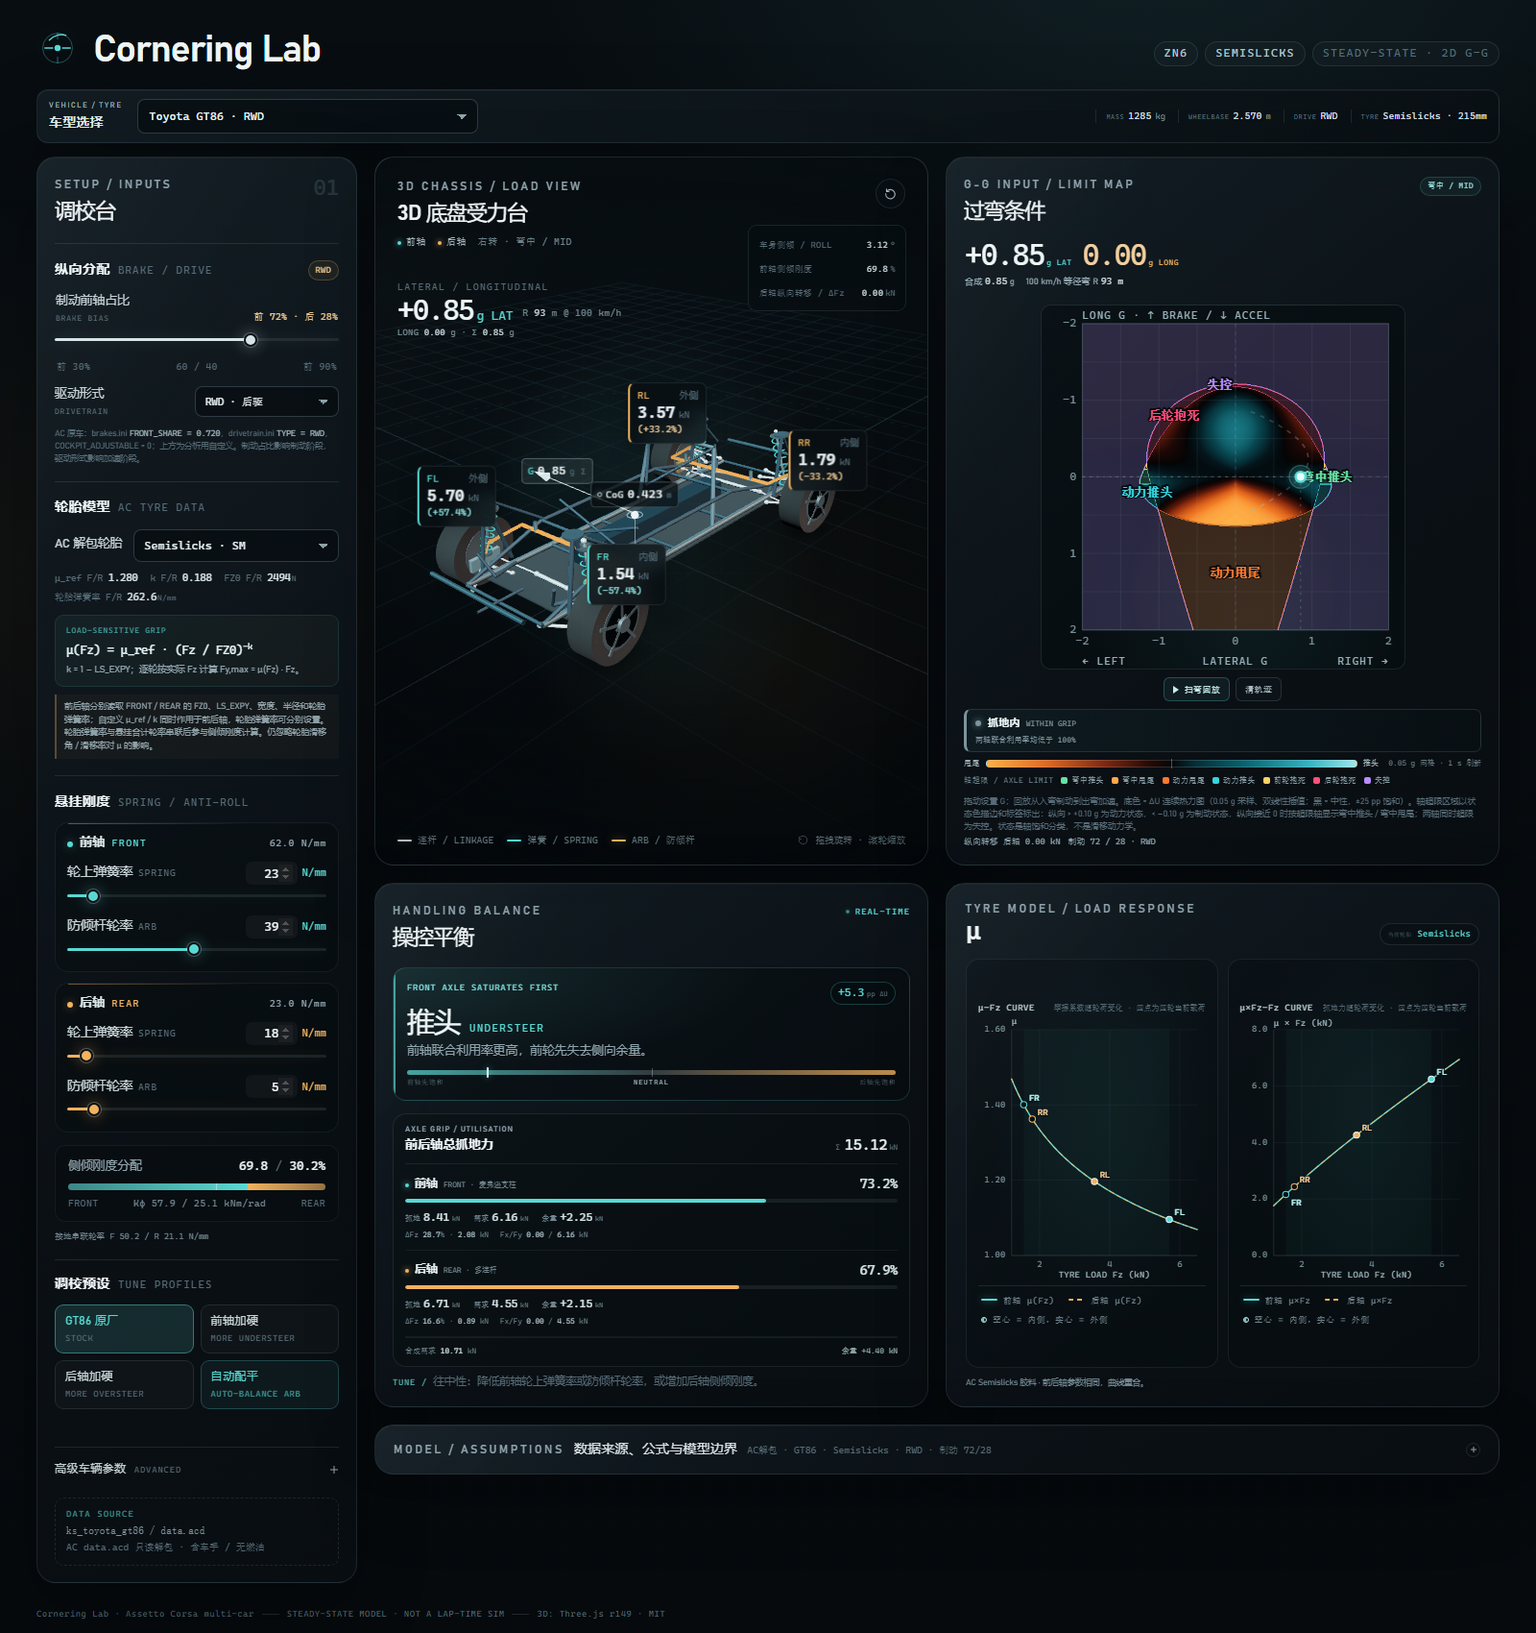
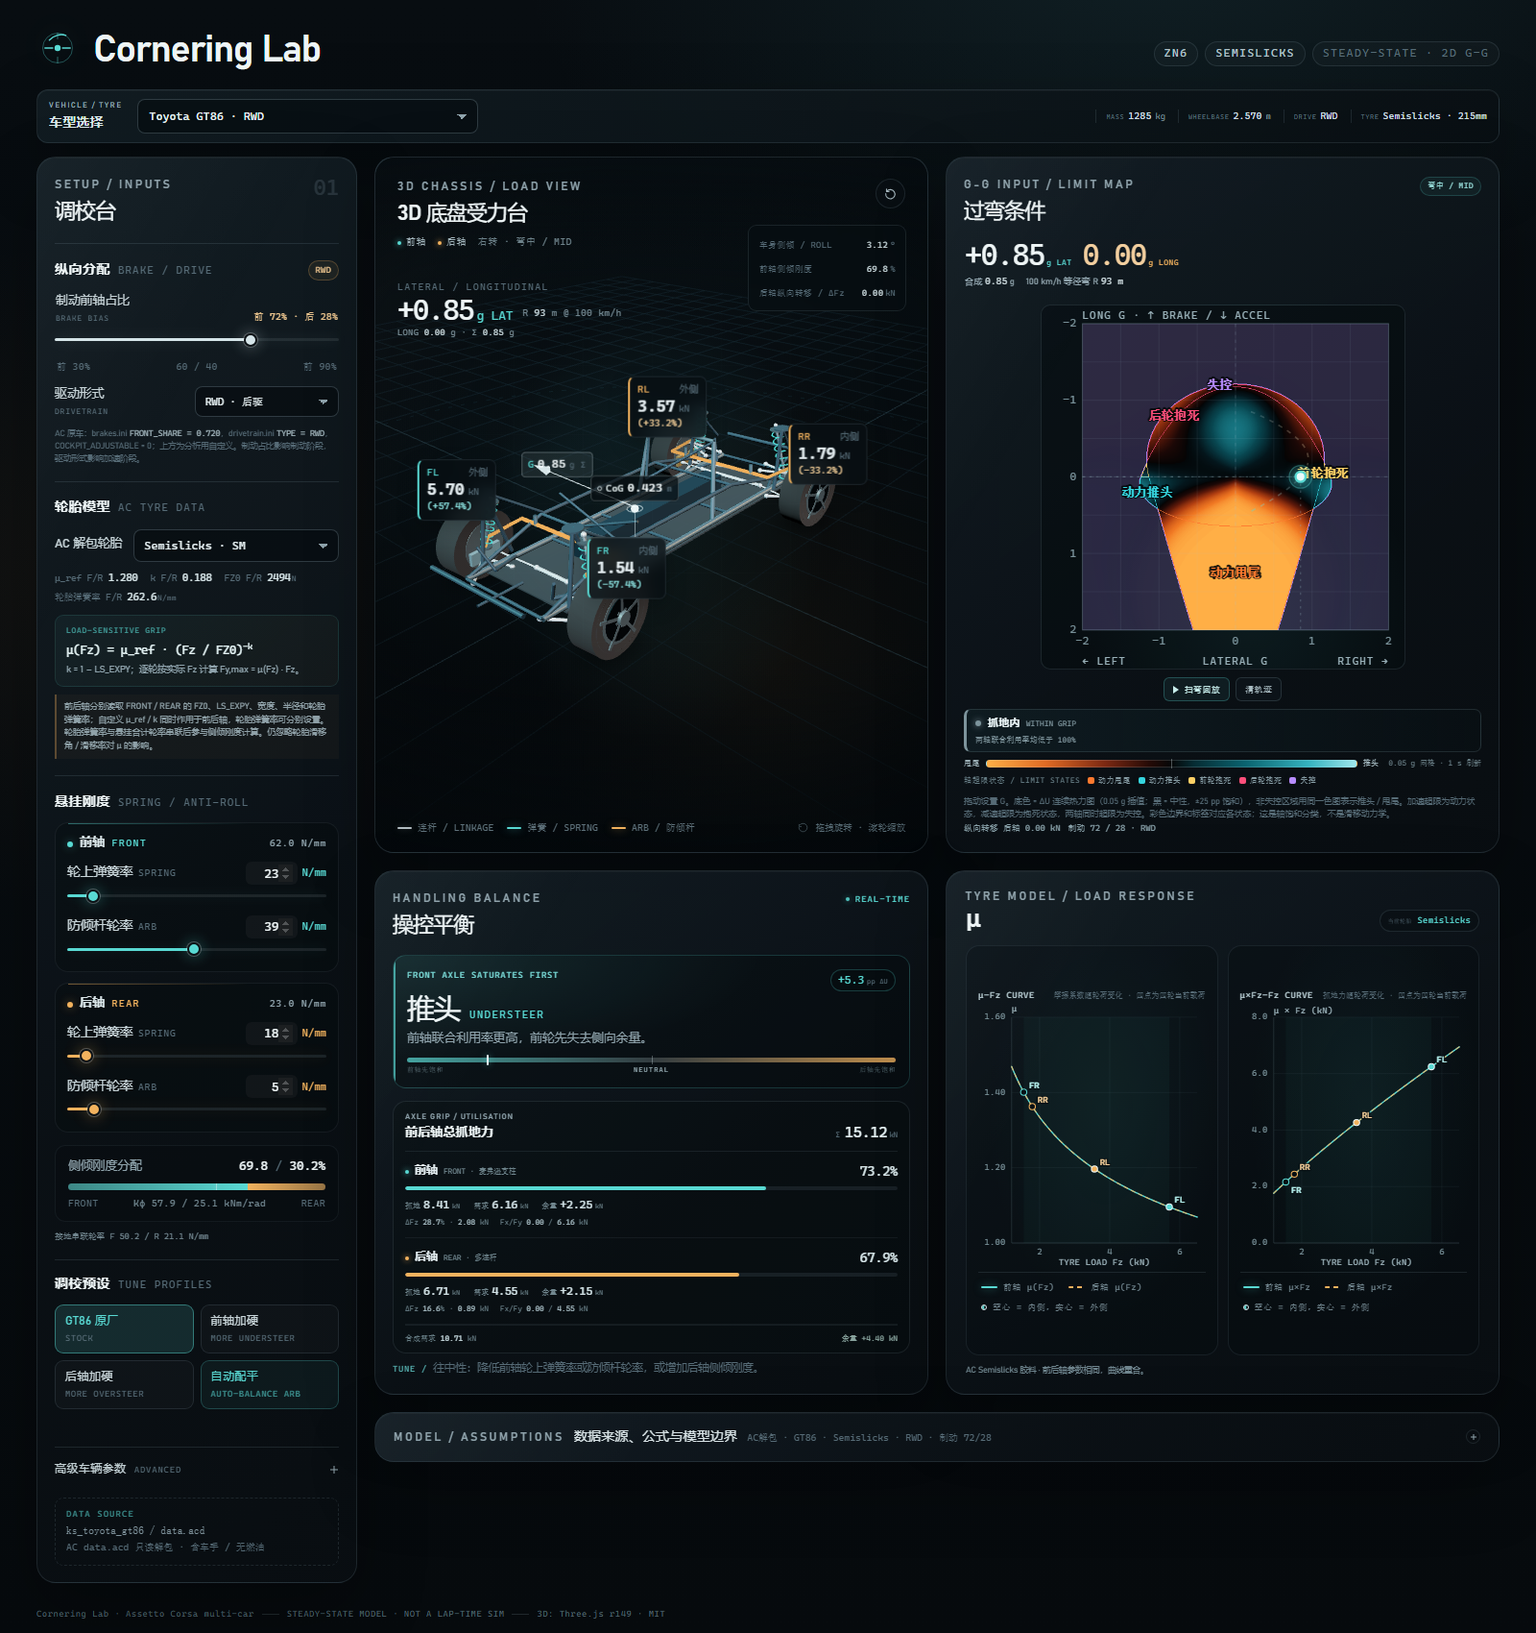
Simplify G-G states and keep colormap in non-loss regions

diff --git a/app.js b/app.js
@@ -41,8 +41,6 @@
   var G_DELTA_SCALE_PP = 25;
   var G_STATE_ORDER = [
     'loss-of-control',
-    'mid-corner-understeer',
-    'mid-corner-oversteer',
     'power-over',
     'power-under',
     'front-lock',
@@ -53,8 +51,6 @@
     G_STATE_INDEX[code] = index + 1;
   });
   var G_STATE_COLORS = {
-    'mid-corner-understeer': [103, 224, 163],
-    'mid-corner-oversteer': [255, 169, 77],
     'power-over': [255, 122, 47],
     'power-under': [53, 213, 223],
     'front-lock': [255, 209, 102],
@@ -62,8 +58,6 @@
     'loss-of-control': [183, 140, 255]
   };
   var G_STATE_DESCRIPTIONS = {
-    'mid-corner-understeer': '纵向 G 接近 0；侧向主导时前轴先达到 100% 联合利用率',
-    'mid-corner-oversteer': '纵向 G 接近 0；侧向主导时后轴先达到 100% 联合利用率',
     'power-over': '加速时后轴先达到 100% 联合利用率',
     'power-under': '加速时前轴先达到 100% 联合利用率',
     'front-lock': '减速时前轴先达到 100% 联合利用率',
@@ -1000,19 +994,14 @@
         var rr1 = r01 + (r11 - r01) * tx;
         var rearUtilValue = rr0 + (rr1 - rr0) * ty;
 
-        // Classify and fade from the same interpolated utilisation field.
-        // The old binary node-limit mask could disagree with this threshold
-        // and leave transparent, sawtoothed holes near the friction circle.
-        var maxUtilValue = Math.max(frontUtilValue, rearUtilValue);
-        var maskX = clamp((maxUtilValue - 0.98) / 0.04, 0, 1);
-        var heatAlpha = 1 - (maskX * maskX * (3 - 2 * maskX));
-
         var vehicleState = model.classifyVehicleState(
           frontUtilValue,
           rearUtilValue,
           longValue
         );
-        var stateColor = vehicleState ? G_STATE_COLORS[vehicleState.code] : null;
+        var lossColor = vehicleState && vehicleState.code === 'loss-of-control'
+          ? G_STATE_COLORS['loss-of-control']
+          : null;
 
         var t = Math.tanh(value / G_DELTA_SCALE_PP);
         var lutIndex = clamp(Math.round((t + 1) * 127.5), 0, 255);
@@ -1025,18 +1014,18 @@
           ? (G_STATE_INDEX[vehicleState.code] || 0)
           : 0;
 
-        if (stateColor) {
-          // Keep the state as a faint categorical wash; the bright contour and
-          // label carry the state while the field stays readable.
-          pixels[dataIndex] = Math.round(baseR * 0.05 + stateColor[0] * 0.95);
-          pixels[dataIndex + 1] = Math.round(baseG * 0.05 + stateColor[1] * 0.95);
-          pixels[dataIndex + 2] = Math.round(baseB * 0.05 + stateColor[2] * 0.95);
+        if (lossColor) {
+          // Loss of control is the only region that keeps a categorical fill;
+          // all other regions keep the same ΔU colormap as the in-grip area.
+          pixels[dataIndex] = Math.round(baseR * 0.05 + lossColor[0] * 0.95);
+          pixels[dataIndex + 1] = Math.round(baseG * 0.05 + lossColor[1] * 0.95);
+          pixels[dataIndex + 2] = Math.round(baseB * 0.05 + lossColor[2] * 0.95);
           pixels[dataIndex + 3] = 52;
         } else {
           pixels[dataIndex] = baseR;
           pixels[dataIndex + 1] = baseG;
           pixels[dataIndex + 2] = baseB;
-          pixels[dataIndex + 3] = Math.round(255 * heatAlpha);
+          pixels[dataIndex + 3] = 255;
         }
         dataIndex += 4;
       }
@@ -1382,6 +1371,12 @@
       label = result.vehicleState.label;
       labelEn = result.vehicleState.labelEn;
       description = G_STATE_DESCRIPTIONS[code] || '';
+    } else if (result.axleLimitReached || result.limitExceeded) {
+      // Exactly 0 g has no directional phase; keep the axle-limit fact visible.
+      code = 'axle-limit';
+      label = '轴超限';
+      labelEn = 'AXLE LIMIT';
+      description = '某轴已达到抓地极限；用 ΔU 色图判断推头 / 甩尾倾向。';
     } else {
       code = 'grip';
       label = '抓地内';

diff --git a/tests/model.test.js b/tests/model.test.js
@@ -472,26 +472,31 @@ test('unpacked AC suspension hardpoints drive each car 3D architecture', () => {
   });
 });
 
-test('longitudinal demand plus the saturated axle classifies the seven limit states', () => {
+test('longitudinal sign classifies the five directional and loss states', () => {
   const classify = model.classifyVehicleState;
 
+  assert.equal(Object.keys(model.VEHICLE_STATES).length, 5);
   assert.equal(classify(0.90, 0.90, 0.50), null);
 
   assert.equal(classify(1.10, 0.80, 0.50).code, 'power-under');
   assert.equal(classify(0.80, 1.10, 0.50).code, 'power-over');
   assert.equal(classify(1.10, 0.80, -0.50).code, 'front-lock');
   assert.equal(classify(0.80, 1.10, -0.50).code, 'rear-lock');
-  assert.equal(classify(1.10, 0.80, 0.00).code, 'mid-corner-understeer');
-  assert.equal(classify(0.80, 1.10, 0.00).code, 'mid-corner-oversteer');
+  // Any non-zero longitudinal sign selects a phase.
+  assert.equal(classify(1.10, 0.80, 0.01).code, 'power-under');
+  assert.equal(classify(0.80, 1.10, 0.01).code, 'power-over');
+  assert.equal(classify(1.10, 0.80, -0.01).code, 'front-lock');
+  assert.equal(classify(0.80, 1.10, -0.01).code, 'rear-lock');
+  assert.equal(classify(1.10, 0.80, 0), null);
+  assert.equal(classify(0.80, 1.10, 0), null);
   assert.equal(classify(1.10, 1.10, 0.50).code, 'loss-of-control');
   assert.equal(classify(1.10, 1.10, -0.50).code, 'loss-of-control');
   assert.equal(classify(1.10, 1.10, 0).code, 'loss-of-control');
 
-  assert.equal(classify(1.10, 0.80, 0.50).labelEn, 'POWER UNDER');
-  assert.equal(classify(1.10, 0.80, 0.00).label, '弯中推头');
-  assert.equal(classify(0.80, 1.10, 0.00).labelEn, 'MID-CORNER OVERSTEER');
+  assert.equal(classify(1.10, 0.80, 0.01).labelEn, 'POWER UNDER');
+  assert.equal(classify(1.10, 0.80, 0.01).label, '动力推头');
+  assert.equal(classify(0.80, 1.10, -0.01).labelEn, 'REAR LOCK');
   assert.equal(classify(0.80, 1.10, -0.50).label, '后轮抱死');
-  assert.equal(model.VEHICLE_STATE_LONG_THRESHOLD_G, 0.10);
 
   const straightGrip = model.calculate(model.cloneBaseState());
   assert.equal(straightGrip.vehicleState, null);

diff --git a/model.js b/model.js
@@ -1628,9 +1628,6 @@
   var NEUTRAL_BAND_PP = 0.35;
   var REFERENCE_SPEED_KMH = 100;
 
-  // A sustained longitudinal demand is required before an axle-limit condition
-  // is labelled as a power / braking state rather than a generic axle limit.
-  var VEHICLE_STATE_LONG_THRESHOLD_G = 0.10;
   var VEHICLE_STATES = Object.freeze({
     powerOver: Object.freeze({
       code: 'power-over',
@@ -1645,20 +1642,6 @@
       labelEn: 'POWER UNDER',
       direction: 'accel',
       axle: 'front'
-    }),
-    midCornerUndersteer: Object.freeze({
-      code: 'mid-corner-understeer',
-      label: '弯中推头',
-      labelEn: 'MID-CORNER UNDERSTEER',
-      direction: 'mid',
-      axle: 'front'
-    }),
-    midCornerOversteer: Object.freeze({
-      code: 'mid-corner-oversteer',
-      label: '弯中甩尾',
-      labelEn: 'MID-CORNER OVERSTEER',
-      direction: 'mid',
-      axle: 'rear'
     }),
     frontLock: Object.freeze({
       code: 'front-lock',
@@ -1692,15 +1675,15 @@
     if (frontOver && rearOver) {
       return VEHICLE_STATES.lossOfControl;
     }
-    if (longitudinalG > VEHICLE_STATE_LONG_THRESHOLD_G) {
+    // The sign of longitudinal G selects the acceleration or braking phase.
+    // Exactly 0 g has no directional state.
+    if (longitudinalG > 0) {
       return rearOver ? VEHICLE_STATES.powerOver : VEHICLE_STATES.powerUnder;
     }
-    if (longitudinalG < -VEHICLE_STATE_LONG_THRESHOLD_G) {
+    if (longitudinalG < 0) {
       return frontOver ? VEHICLE_STATES.frontLock : VEHICLE_STATES.rearLock;
     }
-    return frontOver
-      ? VEHICLE_STATES.midCornerUndersteer
-      : VEHICLE_STATES.midCornerOversteer;
+    return null;
   }
 
   function clamp(value, min, max) {
@@ -2173,7 +2156,6 @@
     DRIVE_MODES: DRIVE_MODES,
     NEUTRAL_BAND_PP: NEUTRAL_BAND_PP,
     VEHICLE_STATES: VEHICLE_STATES,
-    VEHICLE_STATE_LONG_THRESHOLD_G: VEHICLE_STATE_LONG_THRESHOLD_G,
     classifyVehicleState: classifyVehicleState,
     getCarProfile: getCarProfile,
     createBaseState: createBaseState,

diff --git a/index.html b/index.html
@@ -562,9 +562,7 @@
           </div>
 
           <div class="g-state-key" aria-label="轴超限状态颜色图例">
-            <span class="g-state-key-title">轴超限 / AXLE LIMIT</span>
-            <span data-state="mid-corner-understeer"><i aria-hidden="true"></i>弯中推头</span>
-            <span data-state="mid-corner-oversteer"><i aria-hidden="true"></i>弯中甩尾</span>
+            <span class="g-state-key-title">轴超限状态 / LIMIT STATES</span>
             <span data-state="power-over"><i aria-hidden="true"></i>动力甩尾</span>
             <span data-state="power-under"><i aria-hidden="true"></i>动力推头</span>
             <span data-state="front-lock"><i aria-hidden="true"></i>前轮抱死</span>
@@ -573,7 +571,7 @@
           </div>
 
           <p class="g-pad-note">
-            拖动设置 G；回放从入弯制动到出弯加速。底色 = ΔU 连续热力图（0.05 g 采样、双线性插值；黑 = 中性，±25 pp 饱和）。轴超限区域以状态色描边和标签标出：纵向 &gt; +0.10 g 为动力状态，&lt; −0.10 g 为制动状态，纵向接近 0 时按超限轴显示弯中推头 / 弯中甩尾；两轴同时超限为失控。状态是轴饱和分类，不是滑移动力学。
+            拖动设置 G。底色 = ΔU 连续热力图（0.05 g 插值；黑 = 中性，±25 pp 饱和），非失控区域用同一色图表示推头 / 甩尾。加速超限为动力状态，减速超限为抱死状态，两轴同时超限为失控。彩色边界和标签对应各状态；这是轴饱和分类，不是滑移动力学。
             <span id="gLongTransferNote">纵向转移 后轴 +0.00 kN</span>
             <span id="gDistributionNote">制动 72 / 28 · RWD</span>
           </p>

diff --git a/styles.css b/styles.css
@@ -774,8 +774,7 @@ input:focus-visible {
 }
 
 .g-vehicle-state[data-state="grip"] { --state-color: #7d949c; }
-.g-vehicle-state[data-state="mid-corner-understeer"] { --state-color: #67e0a3; }
-.g-vehicle-state[data-state="mid-corner-oversteer"] { --state-color: #ffa94d; }
+.g-vehicle-state[data-state="axle-limit"] { --state-color: #d8b978; }
 .g-vehicle-state[data-state="power-over"] { --state-color: #ff7a2f; }
 .g-vehicle-state[data-state="power-under"] { --state-color: #35d5df; }
 .g-vehicle-state[data-state="front-lock"] { --state-color: #ffd166; }
@@ -858,8 +857,6 @@ input:focus-visible {
   white-space: nowrap;
 }
 
-.g-state-key span[data-state="mid-corner-understeer"] { --state-color: #67e0a3; }
-.g-state-key span[data-state="mid-corner-oversteer"] { --state-color: #ffa94d; }
 .g-state-key span[data-state="power-over"] { --state-color: #ff7a2f; }
 .g-state-key span[data-state="power-under"] { --state-color: #35d5df; }
 .g-state-key span[data-state="front-lock"] { --state-color: #ffd166; }

diff --git a/README.md b/README.md
@@ -38,7 +38,7 @@
 - **车型选择栏**：切换车辆时，质量、轴距、前轴荷、轮距、质心高度、轮上弹簧率 / 防倾杆轮率、制动分配、驱动形式、默认轮胎和可选胶料全部按该车 `data.acd` 更新。
 - **二维 G-G 输入**：横轴为侧向 G（左 / 右），纵轴为纵向 G，**向上为制动（负纵向 G），向下为加速（正纵向 G）**，显示范围 **±2 g**；支持鼠标、触摸、方向键，轨迹保留最近 220 个点。
 - **连续推头 / 甩尾底色**：按当前底盘设置以 **0.05 g 网格**（81 × 81 节点）预计算前后轴利用率差 ΔU，再双线性插值到整个 G-G 面板；采用 ICE–黑色–FIRE 发散色图，黑色 = 中性，±25 pp 饱和。底色最多每 **1 秒**在后台刷新一次（仅在调校参数变化时重算），不随光标或回放每帧重算。
-- **轴超限车辆状态**：当某轴联合利用率达到 100% 时，再按纵向 G 分类：**加速 + 后轴 → Power Oversteer（动力甩尾）**、**加速 + 前轴 → Power Under（动力推头）**、**减速 + 前轴 → 前轮抱死**、**减速 + 后轴 → 后轮抱死**、**纵向接近 0 + 前轴 → 弯中推头 / MID-CORNER UNDERSTEER**、**纵向接近 0 + 后轴 → 弯中甩尾 / MID-CORNER OVERSTEER**；前后轴同时超限 → **失控 / LOSS OF CONTROL**。纵向阈值取 **±0.10 g**。热力图上用淡色状态区、彩色轮廓和标签标出，同时在 G 面板下方显示当前状态条。这些是**轴抓地饱和分类标签**，不是滑移动力学中的真实抱死 / 甩尾仿真。
+- **轴超限车辆状态**：当某轴联合利用率达到 100% 时，按纵向 G 的**符号**分类：**加速 + 后轴 → Power Oversteer（动力甩尾）**、**加速 + 前轴 → Power Under（动力推头）**、**减速 + 前轴 → 前轮抱死**、**减速 + 后轴 → 后轮抱死**；前后轴同时超限 → **失控 / LOSS OF CONTROL**。纵向 G 恰为 0 时没有方向状态。非失控区域全部保留与抓地内相同的 ΔU 连续色图来表示推头 / 甩尾，方向状态只用彩色边界和文字标签标出；失控区域保留分类色填充。这些是**轴抓地饱和分类标签**，不是滑移动力学中的真实抱死 / 甩尾仿真。
 - **入弯 → 弯心 → 出弯回放**：6.2 秒自动扫过从制动入弯、trail braking 到加速出弯的连续 G 组合；状态、载荷、轴抓地力、3D 底盘、弹簧、ARB 与 μ 曲线同步刷新。
 - 可旋转 / 缩放的 3D 底盘：悬挂按车种重建——AC 原始 `TYPE=DWB` 显示上下叉臂，`TYPE=STRUT` 显示支柱；MX-5 ND / Cup 前后双叉臂，GT86 / 22B 前麦弗逊，GT86 后悬按多连杆视觉重建；22B 后悬原始数据为 STRUT。其余新增车型按各自 `suspensions.ini` 的 DWB / STRUT 类型和硬点重建。摆臂、转向拉杆和 STRUT 轴线使用解包硬点，轴距 / 轮距 / 轴荷变化会实时反映到杆长和弹簧位置；空间架车身外形仍是简化示意。
 - 3D **CoG 质心标签 + 垂线 / 地面投影**；G 力箭头长度由合成 G 决定，方向表示惯性力（指向弯外侧，加速指向后方）。
@@ -174,16 +174,15 @@ U          = F_res,axle / Fgrip,axle
 - 纵向 G 通过质心高度与轴距在前后轴间转移垂直载荷；每个车轮的 μ 按其实际 Fz 查曲线。
 - 前 / 后轴总抓地力是该轴两只轮胎的 `Fy,max` 之和。
 - 合成需求包含侧向需求和纵向需求；利用率高的一轴先达到联合极限：前轴高 → understeer；后轴高 → oversteer。
-- G-G 底色对 0.05 g 网格逐节点计算同样的模型：用前后轴联合利用率差 ΔU 着色，双线性插值到面板。轴超限节点按纵向 G 分类并叠加淡色状态区、彩色边界和标签；未落入七类状态的离地区域渐隐留黑。每隔 1 秒仅在参数变化时重算一次。
+- G-G 底色对 0.05 g 网格逐节点计算同样的模型：用前后轴联合利用率差 ΔU 着色，双线性插值到面板。抓地内和轴超限的非失控区域都使用同一套 ΔU 色图；四种方向状态只绘制彩色边界和标签，失控区域保留分类色填充。每隔 1 秒仅在参数变化时重算一次。
 - 车辆状态判定（U ≥ 100% 表示该轴达到联合抓地圆极限）：
   ```text
   U_F ≥ 1 且 U_R ≥ 1                  → 失控 / LOSS OF CONTROL
-  a_x > +0.10 g 且 U_R ≥ 1            → Power Oversteer / 动力甩尾
-  a_x > +0.10 g 且 U_F ≥ 1            → Power Under / 动力推头
-  a_x < −0.10 g 且 U_F ≥ 1            → 前轮抱死 / FRONT LOCK
-  a_x < −0.10 g 且 U_R ≥ 1            → 后轮抱死 / REAR LOCK
-  |a_x| ≤ 0.10 g 且 U_F ≥ 1           → 弯中推头 / MID-CORNER UNDERSTEER
-  |a_x| ≤ 0.10 g 且 U_R ≥ 1           → 弯中甩尾 / MID-CORNER OVERSTEER
+  a_x > 0 且 U_R ≥ 1                  → Power Oversteer / 动力甩尾
+  a_x > 0 且 U_F ≥ 1                  → Power Under / 动力推头
+  a_x < 0 且 U_F ≥ 1                  → 前轮抱死 / FRONT LOCK
+  a_x < 0 且 U_R ≥ 1                  → 后轮抱死 / REAR LOCK
+  a_x = 0 且仅一轴 U ≥ 1              → 无方向状态；用 ΔU 色图判断推头 / 甩尾
   ```
 - **轮胎宽度 WIDTH 没有进入这条 AC 载荷敏感幂律**，因此页面不做宽度输入；它显示所选胶料前 / 后的实际宽度。前后轴会分别使用各自的 FZ0 / LS_EXPY，参数不同时两条 μ–Fz 曲线会分开。
 - **本模型只模拟底盘重心 / 载荷转移和载荷敏感 μ(Fz)**；轮胎滑移角、滑移率、侧偏刚度与轮胎松弛对 μ 的影响全部忽略。μ 曲线仅随垂向载荷变化。
@@ -203,7 +202,7 @@ Start-Process ".\index.html"
 node tests/model.test.js
 ```
 
-当前 25 项测试覆盖：默认 GT86 载荷与平衡、左右轮载荷守恒、**轮对力矩平衡**（而非仅载荷总和）、每只轮胎的 AC 幂律、三种胶料参数、19 车 41 种胶料的前后轮胎弹簧率、19 车几何 / 驱动 / 制动 / 轮胎默认值、19 车悬挂硬点与原始 / 视觉悬挂类型、前后轴独立轮胎表、七类纵向 / 轴超限车辆状态、自定义制动占比、RWD / FWD / AWD 驱动分配、正负侧向 G 的转向 / 载荷侧对称性、前后刚度对抓地力的方向性、零载荷敏感度下刚度不改变平衡、自动配平的成功与不可达边界、轮荷截断 / 离地 / 轴荷守恒、轮胎弹簧率串联、总抓地力超限、纵向载荷转移与总载荷守恒、二维 G 对平衡的影响、轮距对侧倾刚度的影响、参考转弯半径、轮上弹簧率 200 N/mm 上限。
+当前 25 项测试覆盖：默认 GT86 载荷与平衡、左右轮载荷守恒、**轮对力矩平衡**（而非仅载荷总和）、每只轮胎的 AC 幂律、三种胶料参数、19 车 41 种胶料的前后轮胎弹簧率、19 车几何 / 驱动 / 制动 / 轮胎默认值、19 车悬挂硬点与原始 / 视觉悬挂类型、前后轴独立轮胎表、五种方向 / 失控状态、自定义制动占比、RWD / FWD / AWD 驱动分配、正负侧向 G 的转向 / 载荷侧对称性、前后刚度对抓地力的方向性、零载荷敏感度下刚度不改变平衡、自动配平的成功与不可达边界、轮荷截断 / 离地 / 轴荷守恒、轮胎弹簧率串联、总抓地力超限、纵向载荷转移与总载荷守恒、二维 G 对平衡的影响、轮距对侧倾刚度的影响、参考转弯半径、轮上弹簧率 200 N/mm 上限。
 
 ## 文件
 
